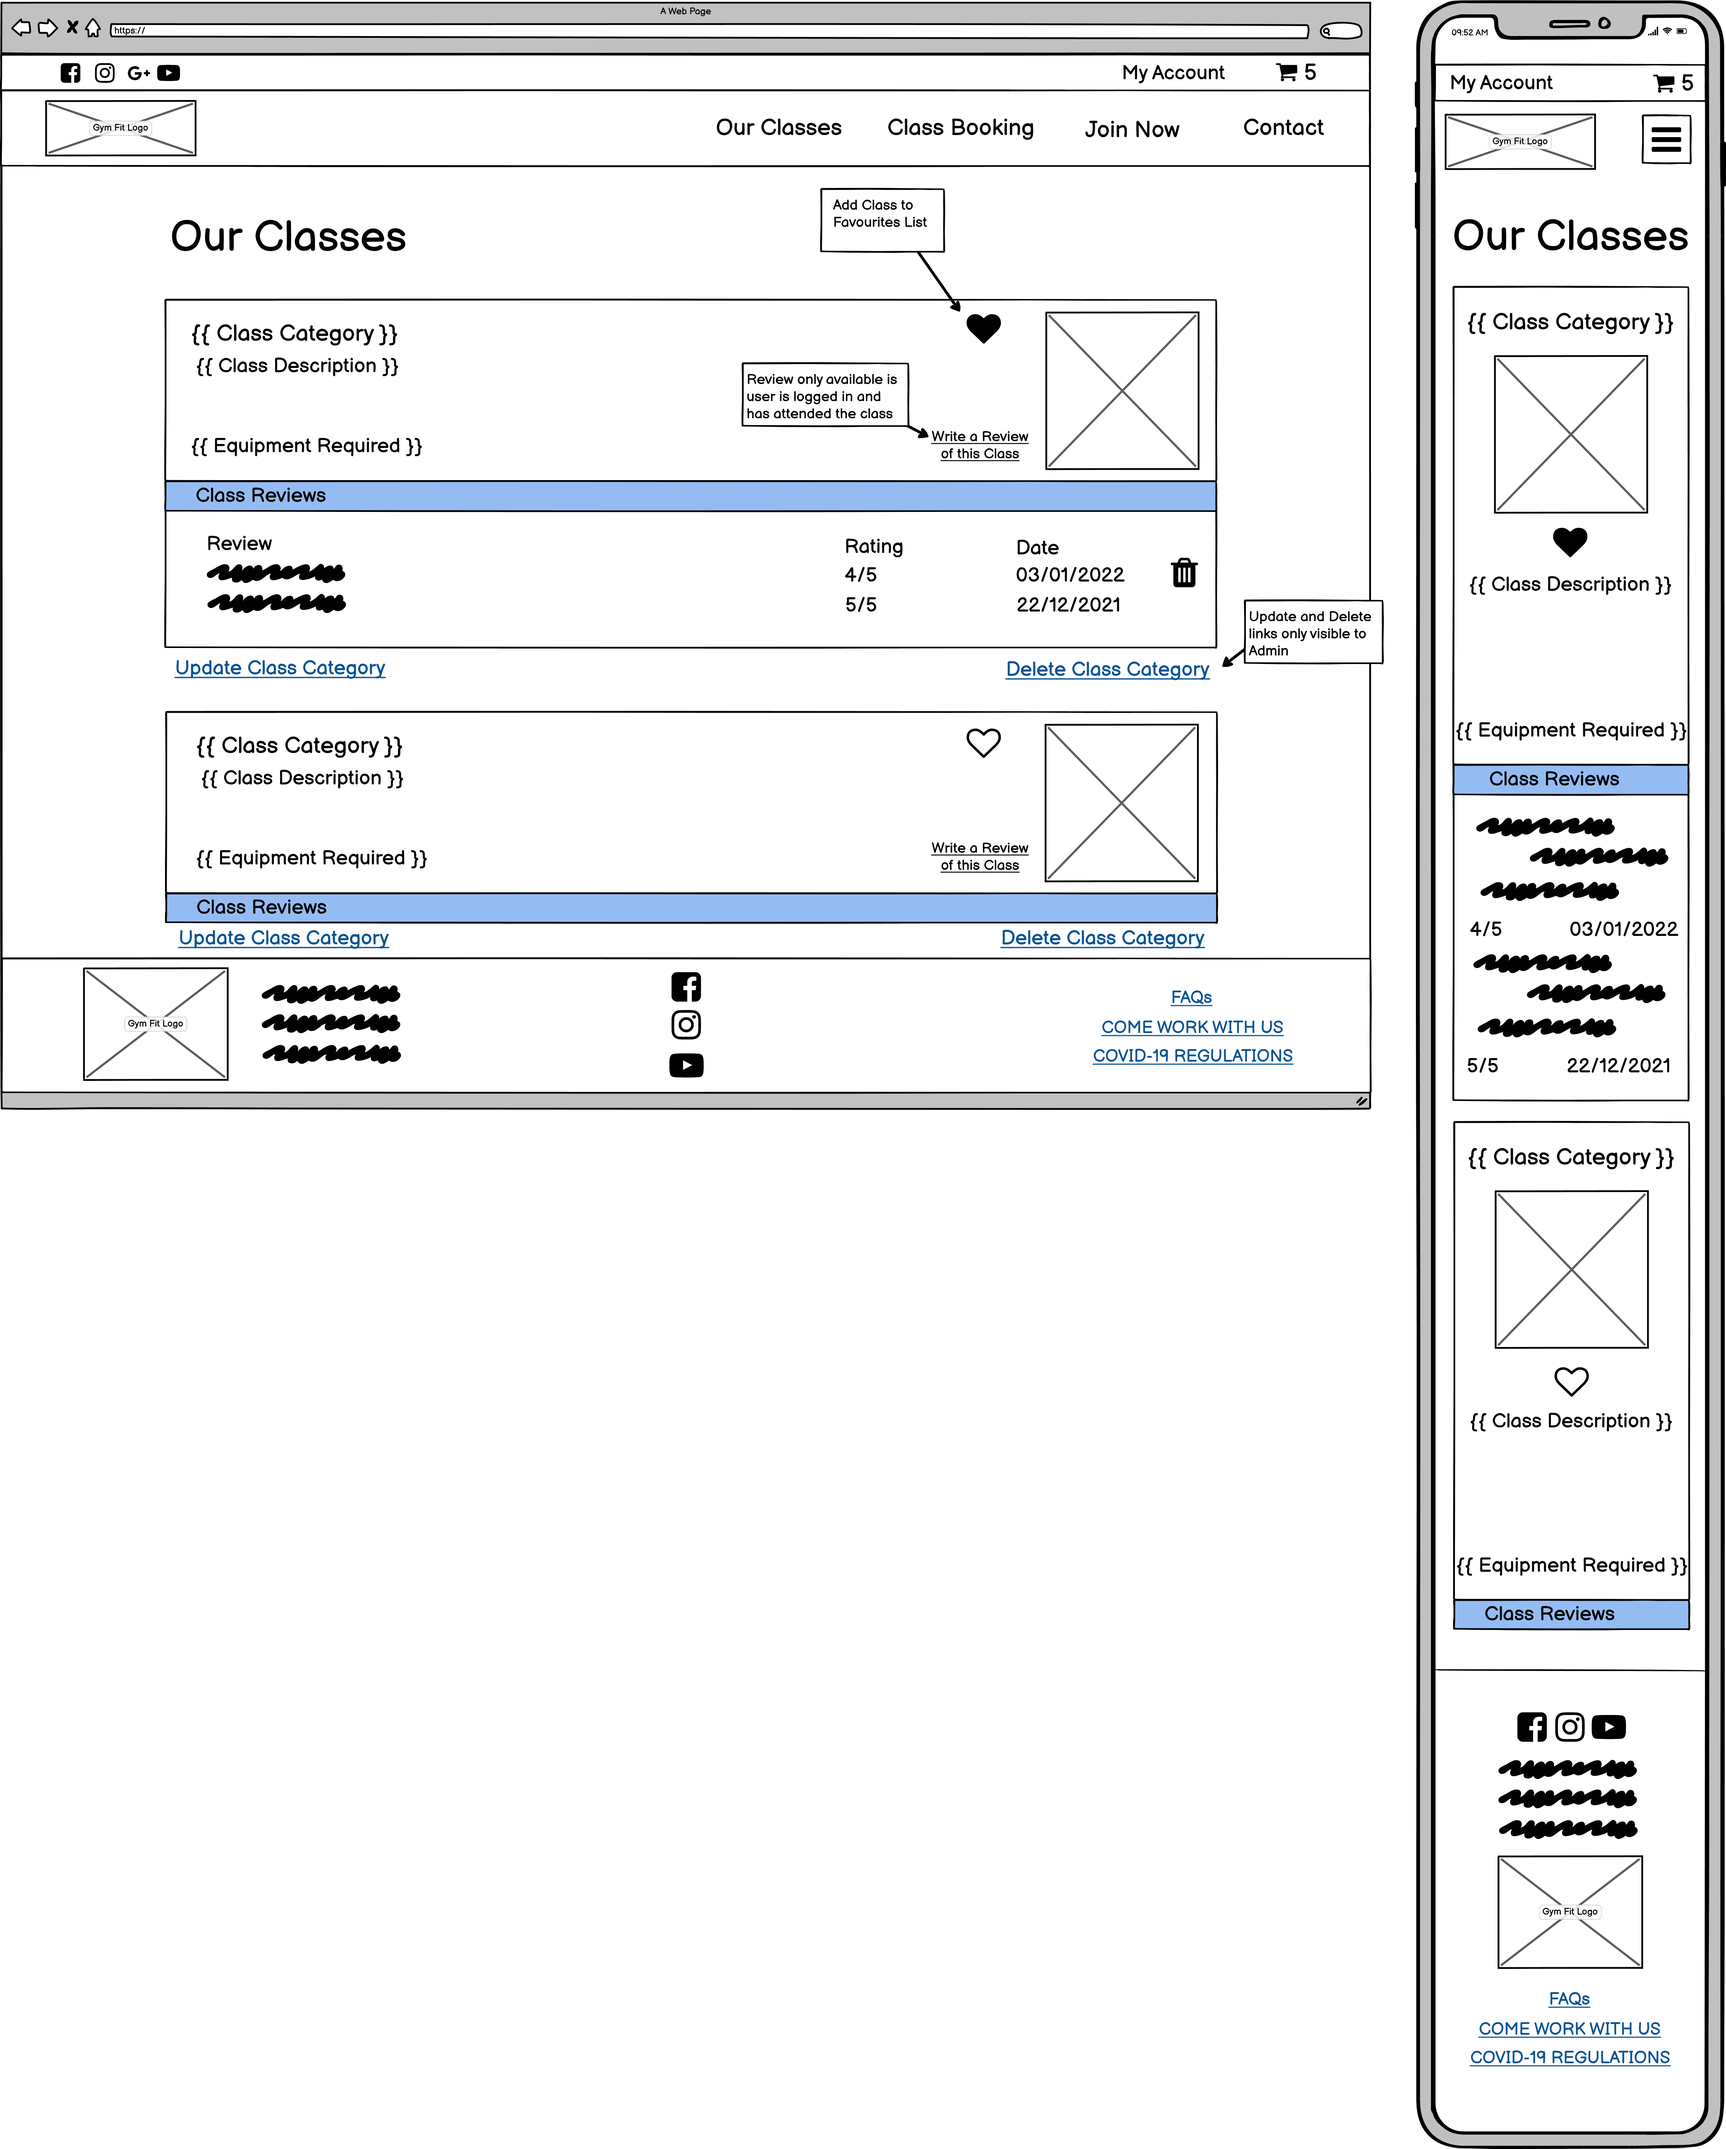
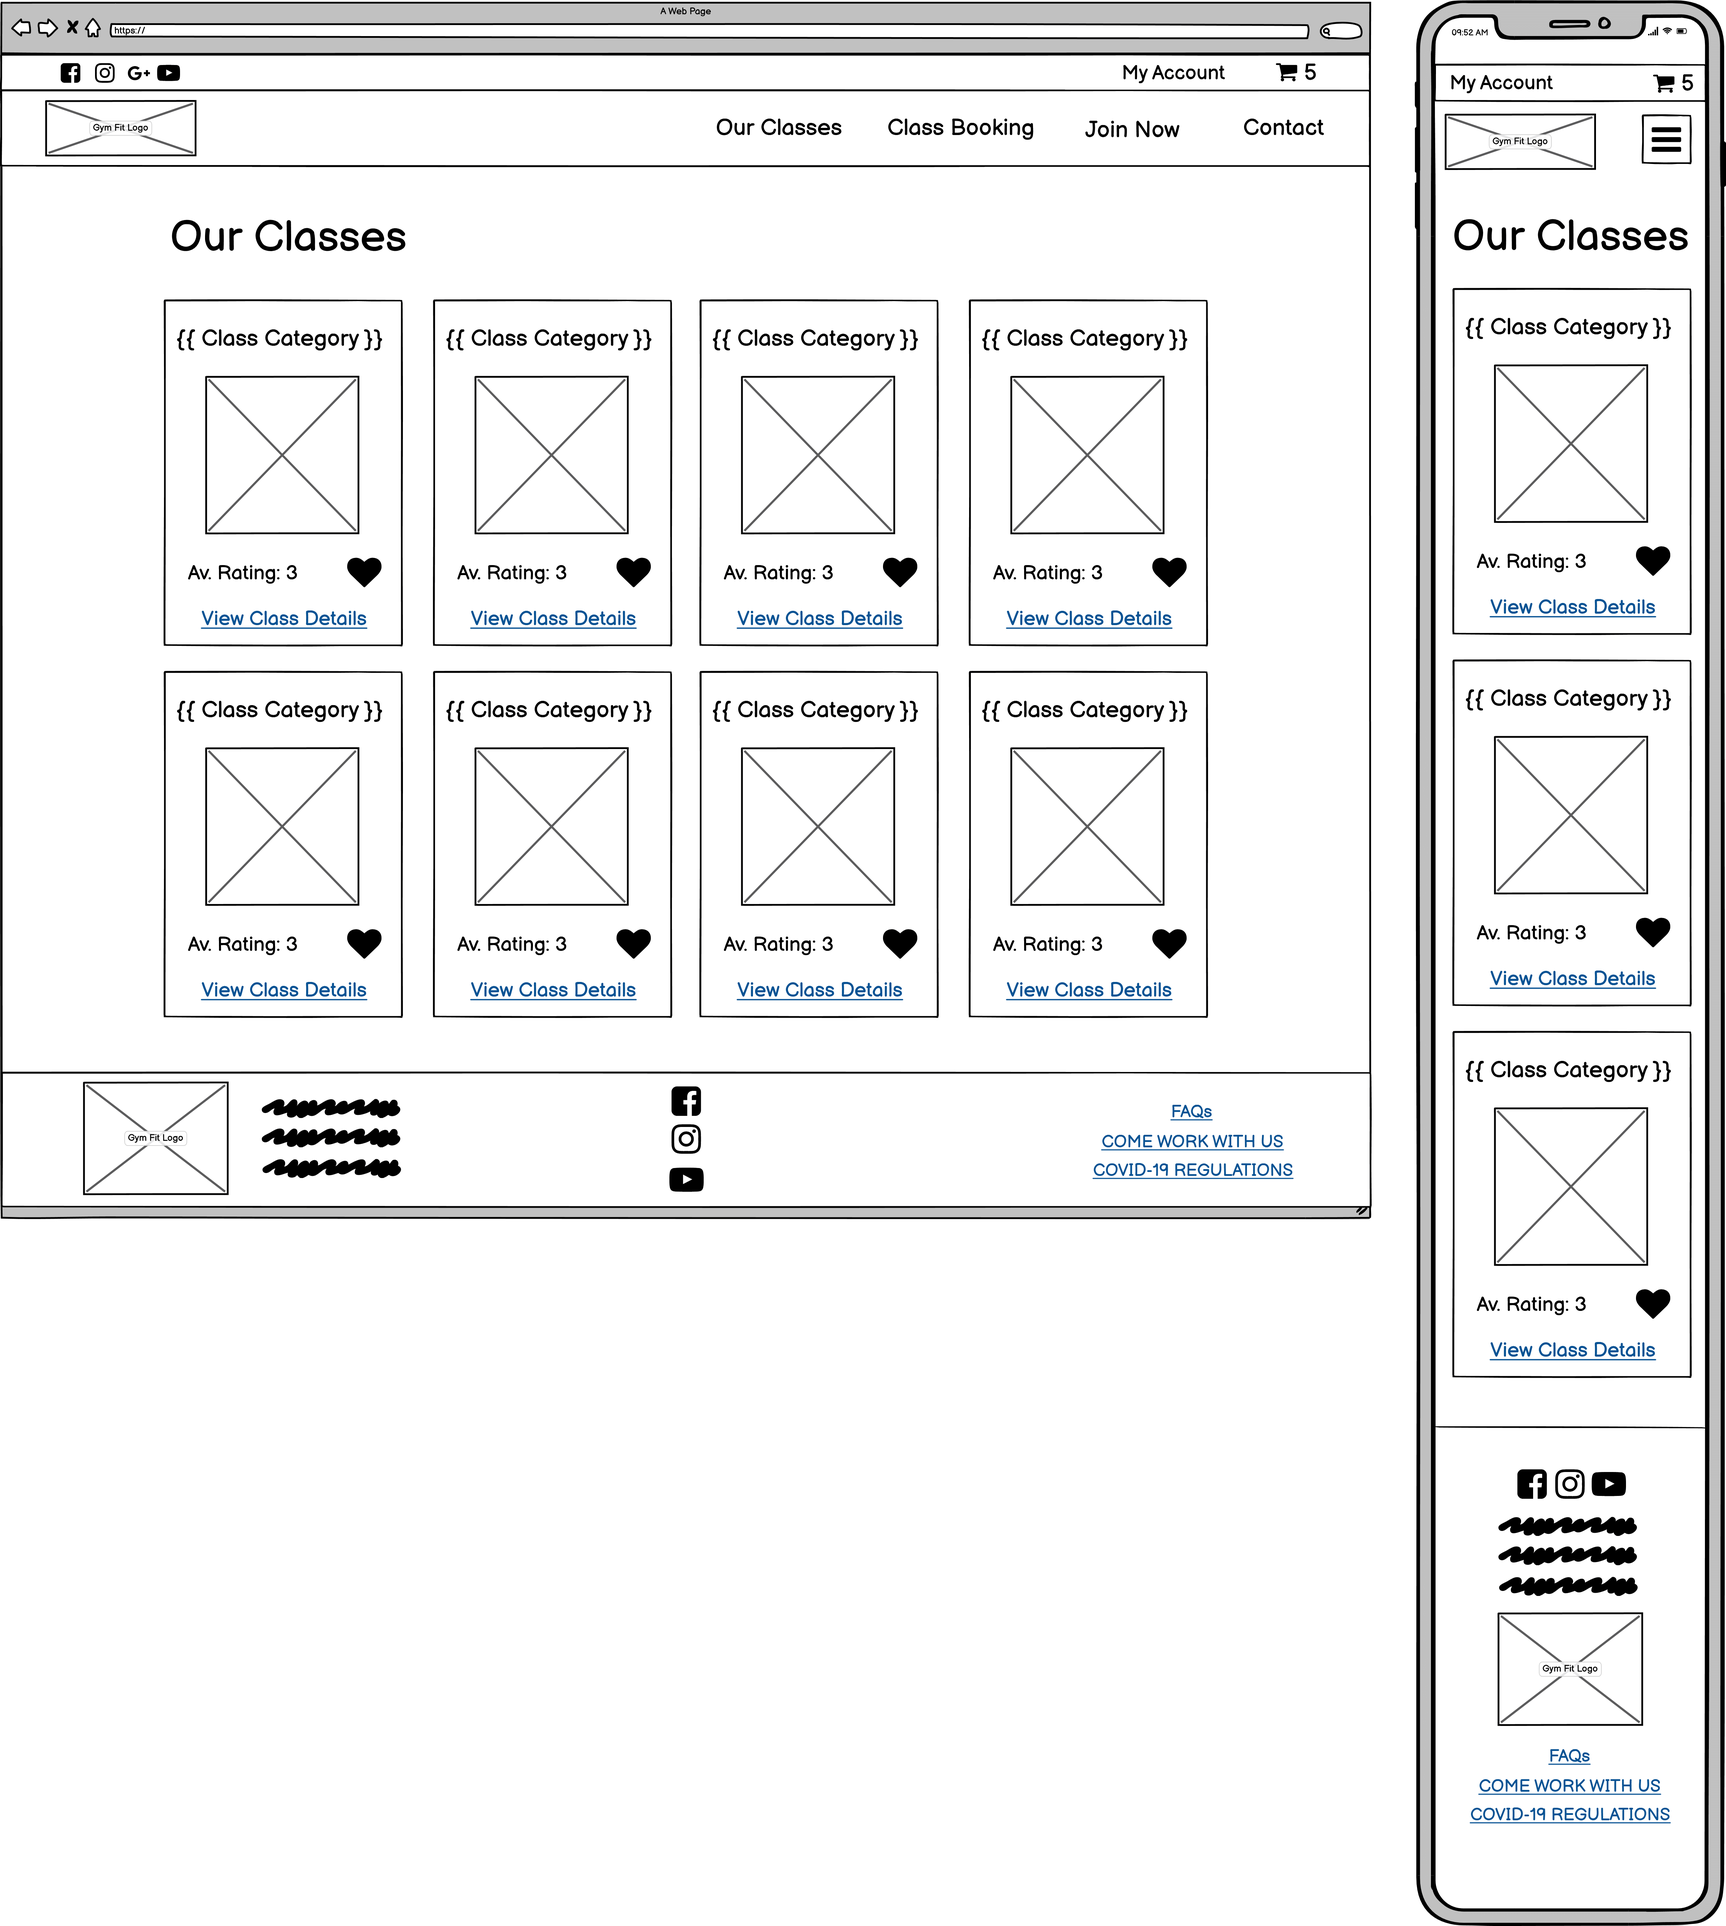
doc: add class-details page wireframe, update our-classes and topolgy after mentor peer review

diff --git a/readme/assets/wireframes.md b/readme/assets/wireframes.md
@@ -17,6 +17,9 @@ My Account
 Our Classes
 ![Page Wireframe](wireframes/our-classes.png)
 
+Class Details
+![Page Wireframe](wireframes/class-details.png)
+
 Add A Review
 ![Page Wireframe](wireframes/add-a-review.png)
 
